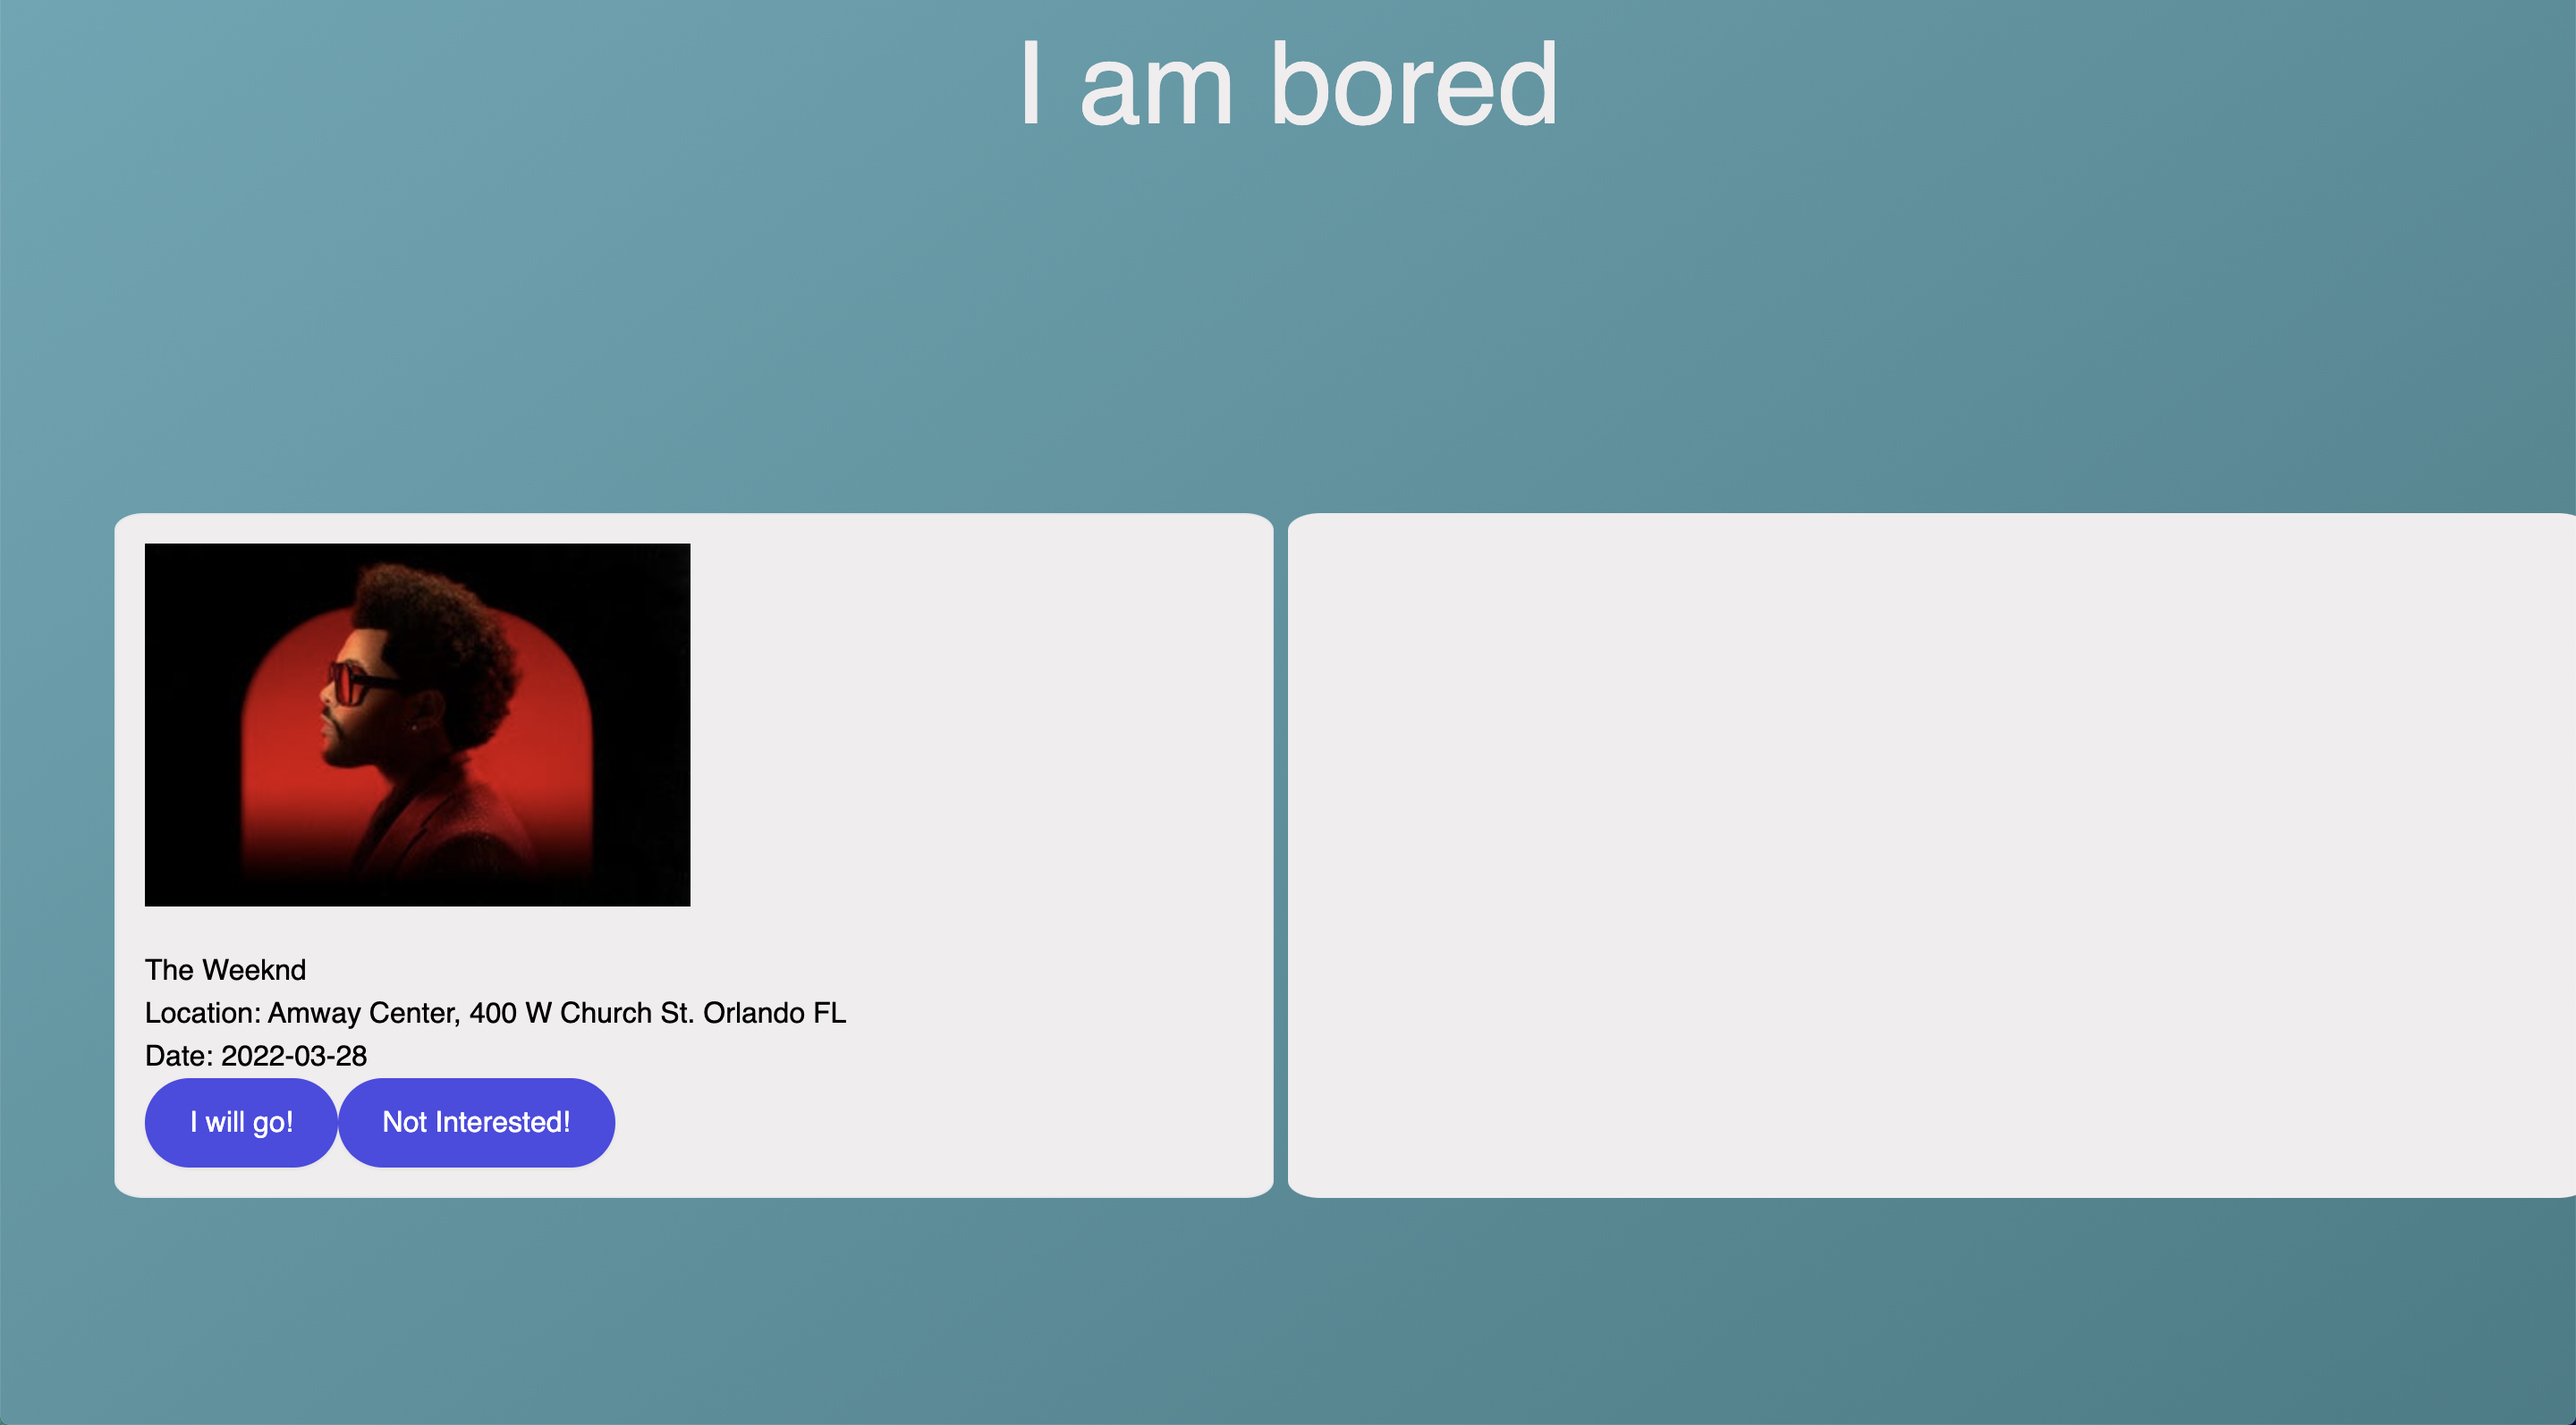
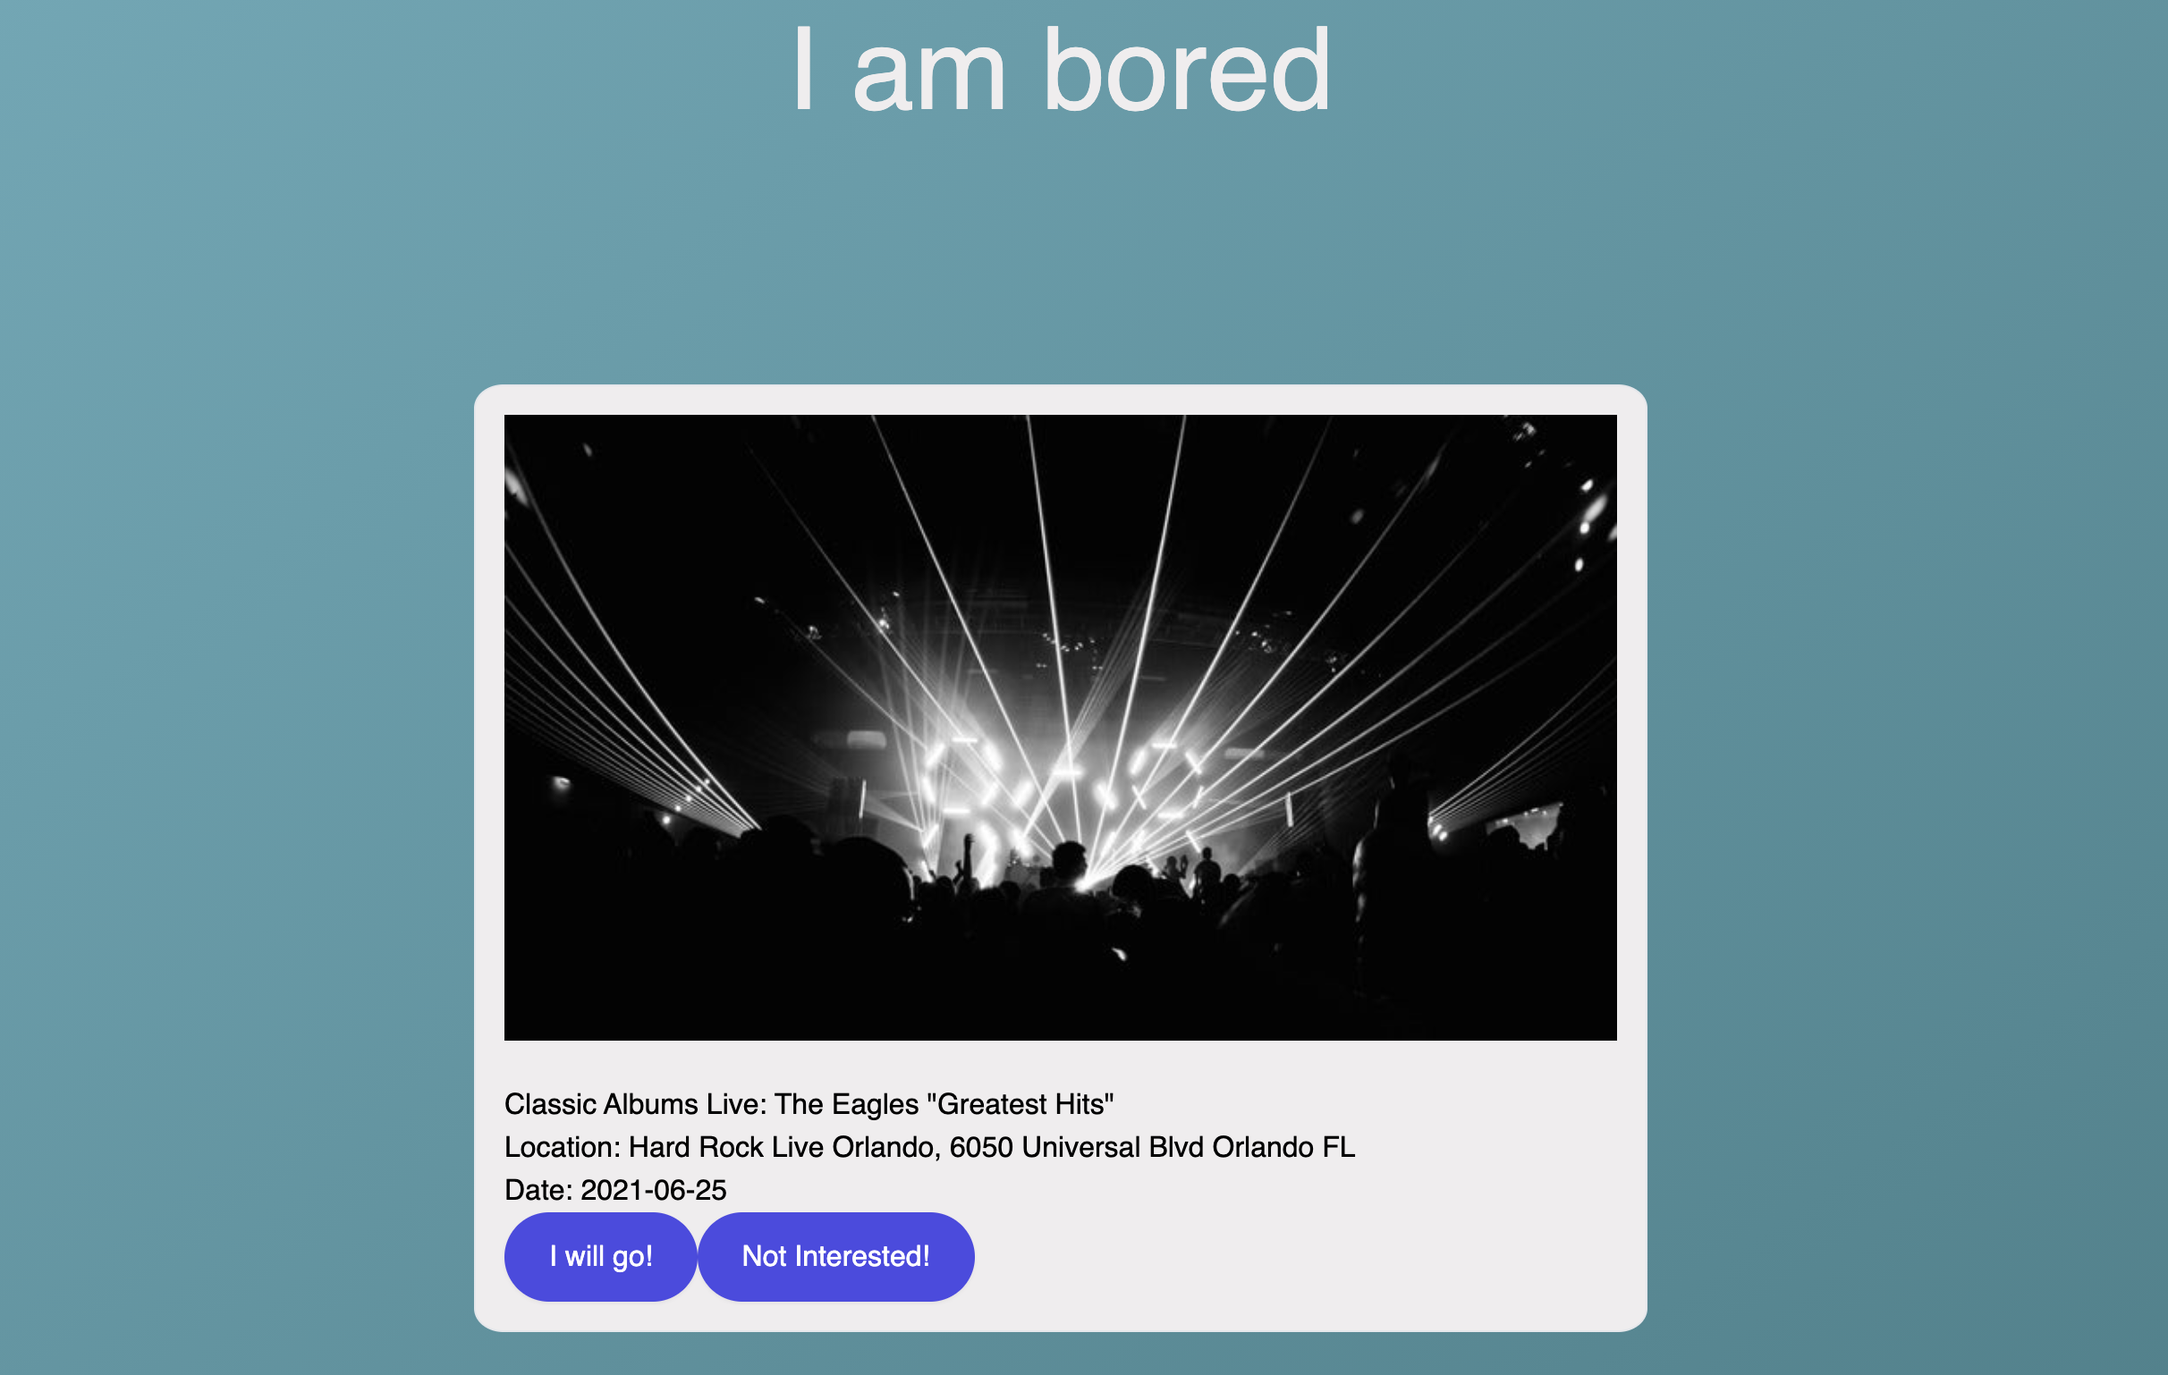
updated readme with new screenshots

diff --git a/README.md b/README.md
@@ -25,4 +25,6 @@ After typing city and state in search
 ![Screenshot of IAMBORED](/assets/images/iambored-eventsearch.png)
 
 After choosing an event it will provide more information
-![Screenshot of IAMBORED](/assets/images/iambored-eventinfo.png)
+![Screenshot of IAMBORED](/assets/images/iambored-eventresult1.png)
+
+![Screenshot of IAMBORED](/assets/images/iambored-eventresult2.png)
